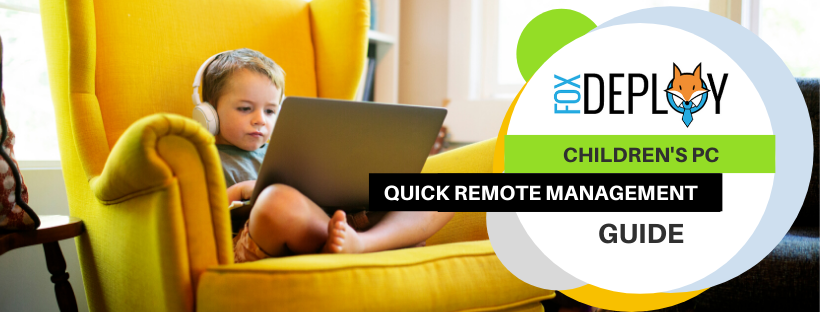
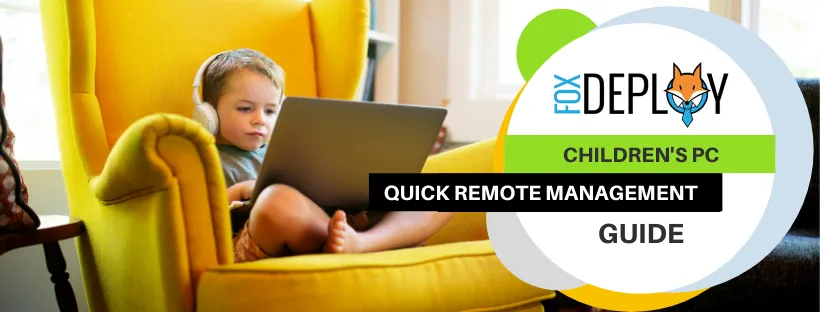
much faster!  Replaced big images with webp files

diff --git a/_includes/latest-posts.html b/_includes/latest-posts.html
@@ -17,7 +17,7 @@
     <div class="card-content">
         <div class="content">
             <a href="/about">
-                <img src="/assets/images/meHead.png">
+                <img src="/assets/images/meHead.webp">
             </a>
         </div>
         <div class="has-text-centered">            
@@ -69,10 +69,10 @@
     
     <div class="card-content">
         <div class="content">
-            <a href="/series/learningDSC"><img src="/series/images/series_dscsidebar.png" alt="series_sml_IntroToDsc" width="320" height="70"></a><br>
-            <a href="/series/LearningGUIs"><img src="/series/images/series_gui.png" alt="series_sml_PowerShellGUI" width="320" height="106" class="alignnone size-large wp-image-2231" srcset="https://foxdeploy.files.wordpress.com/2016/09/gui.png?w=320&amp;zoom=2 2x" scale="2"></a>
-            <a href="/series/learningRaspberryPi"><img src="/series/images/series_iot.png" width="320" height="70" class="alignnone size-large wp-image-2231" alt="series_sml_IntroToRaspberryPi Programming" scale="0"></a>
-            <a href="/series/learningWinRM"><img src="/series/images/series_winrm.png" width="320" height="70" class="alignnone size-large wp-image-2231" alt="series_sml_IntroToWindows Remote Management Series" scale="0"></a>
+            <a href="/series/learningDSC"><img src="/series/images/series_dscsidebar.webp" alt="series_sml_IntroToDsc" width="320" height="70"></a><br>
+            <a href="/series/LearningGUIs"><img src="/series/images/series_gui.webp" alt="series_sml_PowerShellGUI" width="320" height="106" class="alignnone size-large wp-image-2231"></a>
+            <a href="/series/learningRaspberryPi"><img src="/series/images/series_iot.webp" width="320" height="70" class="alignnone size-large wp-image-2231" alt="series_sml_IntroToRaspberryPi Programming" scale="0"></a>
+            <a href="/series/learningWinRM"><img src="/series/images/series_winrm.webp" width="320" height="70" class="alignnone size-large wp-image-2231" alt="series_sml_IntroToWindows Remote Management Series" scale="0"></a>
             <a href="/series/learningSCCM"><img src="/series/images/series_sccm.png" width="320" height="70" class="alignnone size-large wp-image-2231" alt="The Logo for System Center Configuration Manager is displayed here" scale="0"></a>
 </p>
         </div>        
@@ -104,7 +104,7 @@
     
     <div class="card-content">
         <div class="content">
-            <img src="../assets/images/confusedFox.png">
+            <img src="../assets/images/confusedFox.webp">
             <p></p><p>I definitely forget to change this content</p>
             <a href="/tagsList" class="button">Posts by Tag</a>
             <a href="/archives" class="button">Archives</a>

diff --git a/index.html b/index.html
@@ -5,7 +5,7 @@ title: Automation Tails from the FoxHole
 food: Pizza
 layout: page
 show_sidebar: true
-hero_image: /assets/images/foxdeployMOUNTAINTOP_hero.png
+hero_image: /assets/images/foxdeployMOUNTAINTOP_hero.webp
 ---
 <style>
   meta{

diff --git a/_posts/2020-03-18-quick-guide-setting-up-remote-management-of-your-childs-pc.md b/_posts/2020-03-18-quick-guide-setting-up-remote-management-of-your-childs-pc.md
@@ -2,7 +2,7 @@
 title: "Quick Guide - Setting up Remote Management of your child's PC"
 date: "2020-03-18"
 tags: other
-header: "../assets/images/2020/03/images/managing-your.png"
+header: "../assets/images/2020/03/images/managing-your.webp"
 excerpt: "With everyone working remote now, it's really helpful to have a method to remote control your kid's computers, _especially_ if they are hard to keep on task like mine.
 
 So I wrote this short guide to help you get a handle. **This guide expects you to have two computers, one for you, one for your kids to use.**"

diff --git a/_posts/2020-07-28-diy-microsoft-teams-on-air-light.md b/_posts/2020-07-28-diy-microsoft-teams-on-air-light.md
@@ -8,7 +8,7 @@ tags:
   - "skype"
   - "Microsoft Teams"
   - "hacking"
-coverImage: "../assets/images/2020/07/images/teams-on-airlight.png"
+coverImage: "../assets/images/2020/07/images/teams-on-airlight.webp"
 excerpt: "Children. You love them. They in turn, run into your meetings all the time. Sometimes wearing pants.
 
 Wouldn't it be great to have a way to keep them informed of when Daddy or Mommy is in a meeting? Something nice and big and obvious that they can just totally ignore, right?"

diff --git a/_posts/2020-05-18-joining-microsoft.md b/_posts/2020-05-18-joining-microsoft.md
@@ -4,7 +4,7 @@ date: "2020-05-18"
 tags: 
   - "azure"
   - "life"
-coverImage: "../assets/images/2020/05/images/azureatl.png"
+coverImage: "../assets/images/2020/05/images/azureatl.webp"
 excerpt: "I have really loved these last three years with #BigBank #SpoilersItWasWellsFargoAllAlong and made some great friends and had some awesome experiences creating and sharing sessions at MMS with my friends I made along the way."
 redirect_from: /2020/05/18/joining-microsoft/
 ---

diff --git a/_posts/2020-08-14-powershell-quickie-function-to-make-your-mocks-faster.md b/_posts/2020-08-14-powershell-quickie-function-to-make-your-mocks-faster.md
@@ -1,7 +1,7 @@
 ---
 title: "PowerShell quickie - function to make your Mocks faster"
 date: "2020-08-14"
-header: "../assets/images/2020/08/images/quicker-auto-mocking-in-c.png"
+header: "../assets/images/2020/08/images/quicker-auto-mocking-in-c.webp"
 layout: post
 excerpt: "In C#, writing unit tests is king, and Moq is the hotness we use to Mock objects and methods, like the MockObjects we get with Pester in PowerShell."
 tags: [powershell, mstest, moq, mocking]
